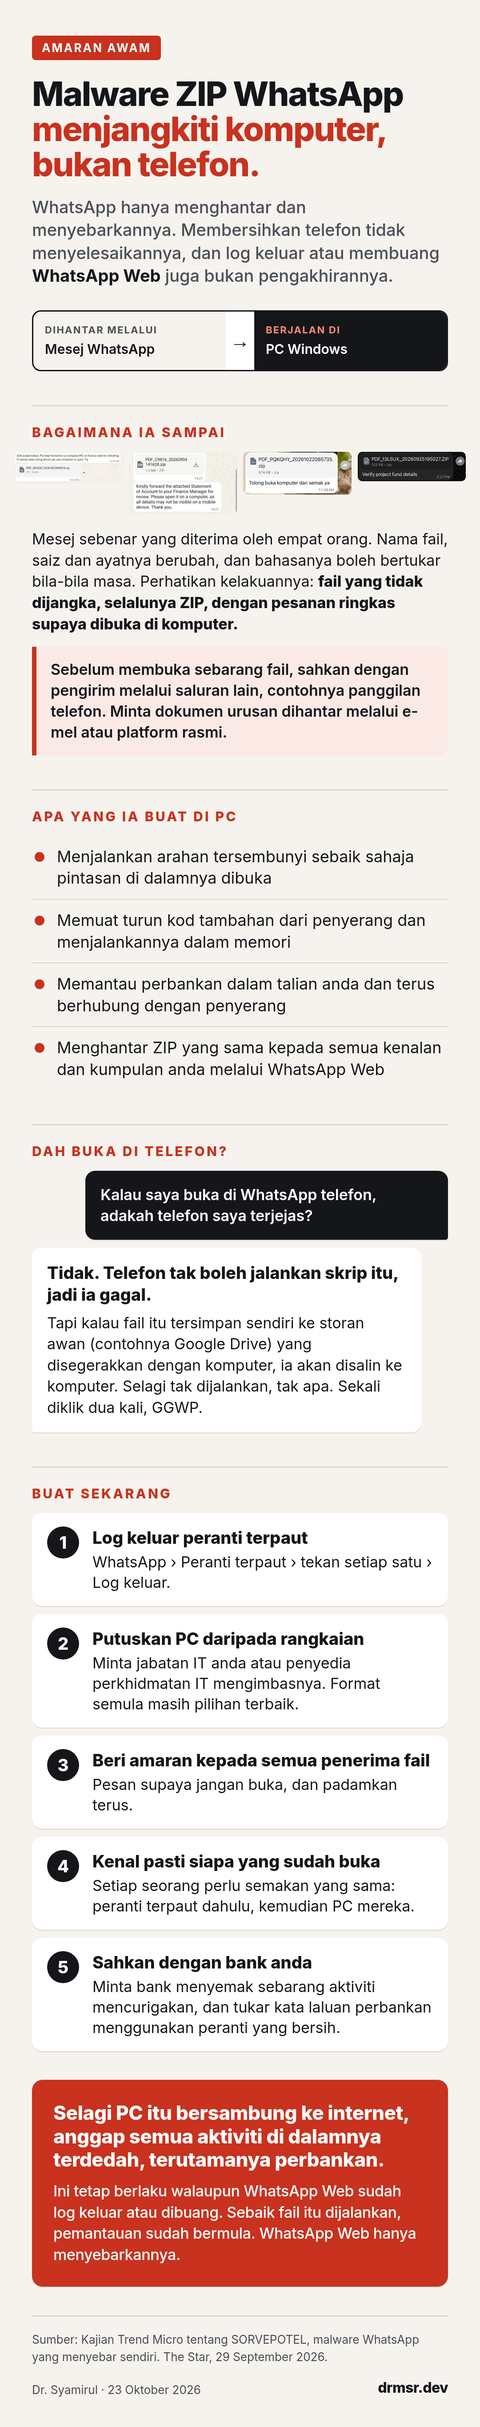
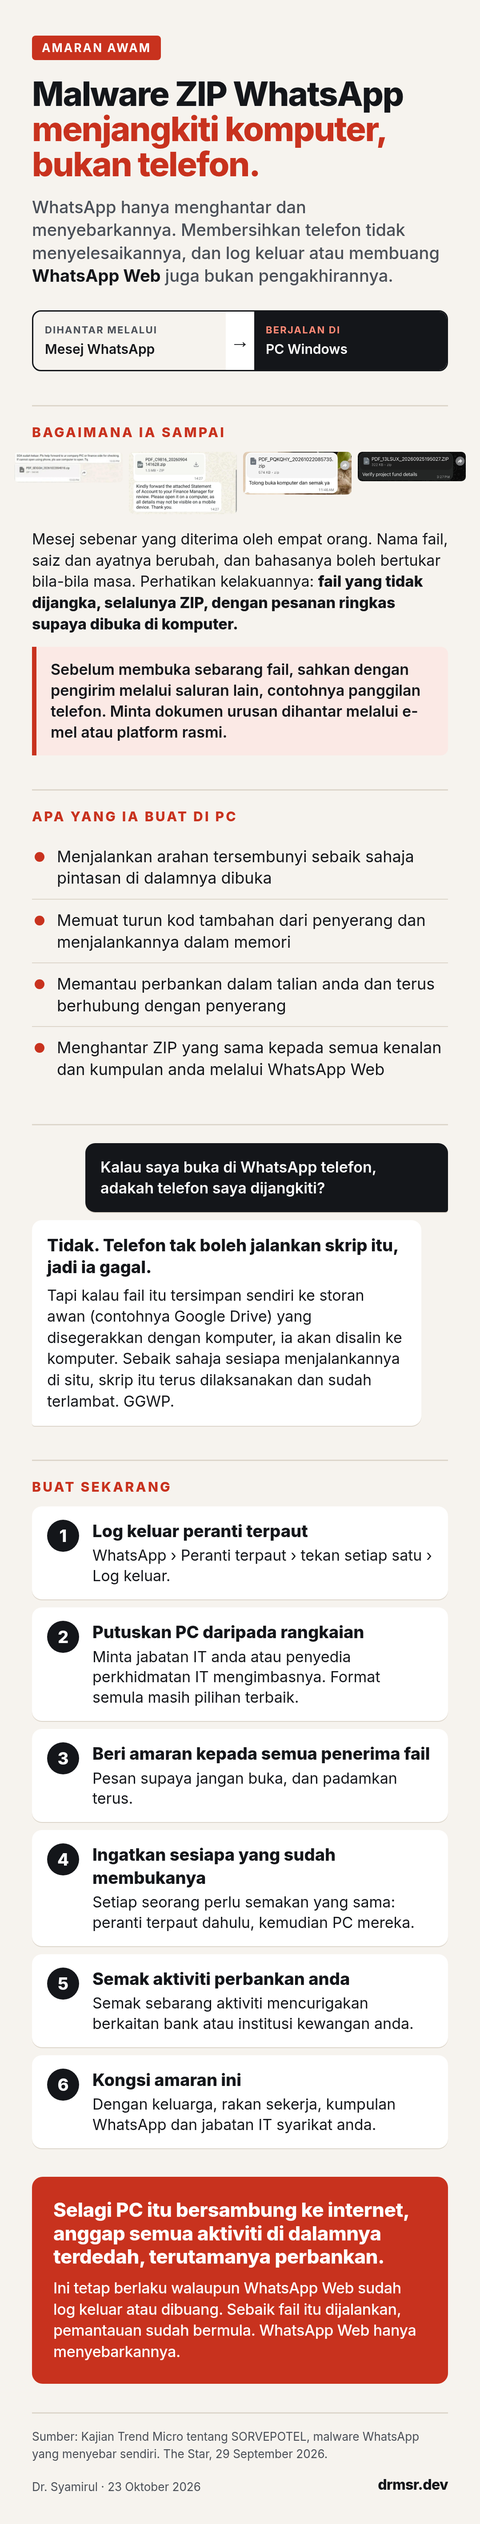
Advisory: Kid's second review (gallery lightbox, order, wording, steps)
Lure screenshots become a 2x2 (mobile) / 4-across grid that opens a
swipeable lightbox with previous/next and a counter. How it arrives now
comes first, the behaviour sentence is bold, the SORVEPOTEL sentence
links to the research, 'infected' replaces 'affected', steps 4-6
reworded, and the share button is centred with a share icon.

Claude-Session: https://claude.ai/code/session_01UKtv761YuUTM2Gfy5BTL3m

Changed region(s): [[0.0611, 0.0, 0.9778, 0.9978], [0.8556, 0.686, 0.8861, 0.7483]]

diff --git a/src/routes/Detail/components/MarkdownRenderer/ImageGallery.tsx b/src/routes/Detail/components/MarkdownRenderer/ImageGallery.tsx
@@ -1,0 +1,121 @@
+import { FC, TouchEvent, useCallback, useEffect, useState } from "react"
+import { ChevronLeft, ChevronRight, X } from "lucide-react"
+
+export type GalleryItem = {
+  src: string
+  alt: string
+  caption?: string
+}
+
+type Props = {
+  items: GalleryItem[]
+}
+
+// Thumbnail grid (2 across on mobile, 4 on wider screens) that opens a swipeable lightbox.
+const ImageGallery: FC<Props> = ({ items }) => {
+  const [open, setOpen] = useState<number | null>(null)
+  const [touchX, setTouchX] = useState<number | null>(null)
+  const count = items.length
+
+  const close = useCallback(() => setOpen(null), [])
+  const step = useCallback(
+    (delta: number) => setOpen((i) => (i === null ? i : (i + delta + count) % count)),
+    [count]
+  )
+
+  useEffect(() => {
+    if (open === null) return
+    const onKey = (e: KeyboardEvent) => {
+      if (e.key === "Escape") close()
+      if (e.key === "ArrowLeft") step(-1)
+      if (e.key === "ArrowRight") step(1)
+    }
+    window.addEventListener("keydown", onKey)
+    const overflow = document.body.style.overflow
+    document.body.style.overflow = "hidden"
+    return () => {
+      window.removeEventListener("keydown", onKey)
+      document.body.style.overflow = overflow
+    }
+  }, [open, close, step])
+
+  const onTouchEnd = (e: TouchEvent) => {
+    if (touchX === null) return
+    const dx = e.changedTouches[0].clientX - touchX
+    if (Math.abs(dx) > 40) step(dx < 0 ? 1 : -1)
+    setTouchX(null)
+  }
+
+  const item = open === null ? null : items[open]
+
+  return (
+    <>
+      <div className="grid grid-cols-2 sm:grid-cols-4 gap-3 my-4">
+        {items.map((it, i) => (
+          <button
+            key={it.src}
+            type="button"
+            onClick={() => setOpen(i)}
+            className="block w-full rounded-lg overflow-hidden border border-gray-6 bg-gray-3 cursor-zoom-in"
+            aria-label={it.alt}
+          >
+            <img src={it.src} alt={it.alt} className="w-full h-36 sm:h-40 object-contain" />
+          </button>
+        ))}
+      </div>
+
+      {item && open !== null && (
+        <div
+          role="dialog"
+          aria-modal="true"
+          className="fixed inset-0 z-50 flex flex-col items-center justify-center bg-black/90 p-4"
+          onClick={close}
+          onTouchStart={(e) => setTouchX(e.touches[0].clientX)}
+          onTouchEnd={onTouchEnd}
+        >
+          <button
+            type="button"
+            onClick={close}
+            aria-label="Close"
+            className="absolute top-4 right-4 rounded-full bg-white/15 p-2 text-white"
+          >
+            <X size={24} />
+          </button>
+
+          <div className="flex w-full max-w-4xl items-center gap-2" onClick={(e) => e.stopPropagation()}>
+            <button
+              type="button"
+              onClick={() => step(-1)}
+              aria-label="Previous"
+              className="shrink-0 rounded-full bg-white/15 p-2 text-white"
+            >
+              <ChevronLeft size={28} />
+            </button>
+            <img
+              src={item.src}
+              alt={item.alt}
+              className="min-w-0 flex-1 max-h-[70vh] object-contain rounded-lg"
+            />
+            <button
+              type="button"
+              onClick={() => step(1)}
+              aria-label="Next"
+              className="shrink-0 rounded-full bg-white/15 p-2 text-white"
+            >
+              <ChevronRight size={28} />
+            </button>
+          </div>
+
+          <div className="mt-4 max-w-2xl text-center text-sm leading-6 text-white" onClick={(e) => e.stopPropagation()}>
+            {item.caption && <p>{item.caption}</p>}
+            <p className="mt-2 font-semibold">
+              {open + 1} / {count}
+            </p>
+          </div>
+        </div>
+      )}
+    </>
+  )
+}
+
+export default ImageGallery

diff --git a/src/routes/Detail/components/MarkdownRenderer/index.tsx b/src/routes/Detail/components/MarkdownRenderer/index.tsx
@@ -6,6 +6,7 @@ import Image from "next/image"
 import Link from "next/link"
 import { FC } from "react"
 import ShareImageButton from "./ShareImageButton"
+import ImageGallery, { GalleryItem } from "./ImageGallery"
 
 // A markdown link to "#share-image:/path.png" renders as a share button for that image.
 const SHARE_IMAGE = "#share-image:"
@@ -56,11 +57,24 @@ const MarkdownRenderer: FC<Props> = ({ content }) => {
               </a>
             )
           },
-          pre: ({ children, ...props }) => (
-            <pre className="rounded-lg overflow-x-auto my-4" {...props}>
-              {children}
-            </pre>
-          ),
+          pre: ({ node, children, ...props }) => {
+            // A ```gallery fenced block holds a JSON list of images for ImageGallery.
+            const code: any = node?.children?.[0]
+            const cls = code?.properties?.className
+            if (Array.isArray(cls) && cls.includes("language-gallery")) {
+              const text = (code.children || []).map((c: any) => c.value || "").join("")
+              try {
+                return <ImageGallery items={JSON.parse(text) as GalleryItem[]} />
+              } catch {
+                return null
+              }
+            }
+            return (
+              <pre className="rounded-lg overflow-x-auto my-4" {...props}>
+                {children}
+              </pre>
+            )
+          },
           code: ({ className, children, ...props }: any) => {
             const match = /language-(\w+)/.exec(className || "")
             if (match) {

diff --git a/src/routes/Detail/components/MarkdownRenderer/ShareImageButton.tsx b/src/routes/Detail/components/MarkdownRenderer/ShareImageButton.tsx
@@ -1,4 +1,5 @@
 import { FC, MouseEvent, ReactNode, useEffect, useState } from "react"
+import { Share2 } from "lucide-react"
 
 type Props = {
   src: string
@@ -33,22 +34,28 @@ const ShareImageButton: FC<Props> = ({ src, children }) => {
   }
 
   return (
-    <a
-      href={src}
-      download={name}
-      onClick={onClick}
-      style={{
-        display: "inline-block",
-        padding: "0.6rem 1.2rem",
-        borderRadius: "9999px",
-        background: "var(--gray-12)",
-        color: "var(--gray-1)",
-        fontWeight: 600,
-        textDecoration: "none",
-      }}
-    >
-      {children}
-    </a>
+    <span style={{ display: "flex", justifyContent: "center", margin: "1rem 0" }}>
+      <a
+        href={src}
+        download={name}
+        onClick={onClick}
+        style={{
+          display: "inline-flex",
+          alignItems: "center",
+          gap: "0.5rem",
+          padding: "0.75rem 1.5rem",
+          borderRadius: "9999px",
+          background: "#c8321e",
+          color: "#ffffff",
+          fontWeight: 700,
+          textDecoration: "none",
+          boxShadow: "0 2px 8px rgba(0,0,0,0.25)",
+        }}
+      >
+        {children}
+        <Share2 size={18} aria-hidden="true" />
+      </a>
+    </span>
   )
 }
 

diff --git a/content/posts/whatsapp-malware-bm.md b/content/posts/whatsapp-malware-bm.md
@@ -12,45 +12,69 @@ thumbnail: null
 
 [Read in English](/advisory/whatsapp-malware-en)
 
-![Infografik amaran awam: malware ZIP WhatsApp menjangkiti komputer, bukan telefon, dengan lima langkah yang perlu diambil](https://drmsr.dev/images/advisory/whatsapp-malware-bm.png?v=2)
+![Infografik amaran awam: malware ZIP WhatsApp menjangkiti komputer, bukan telefon, dengan lima langkah yang perlu diambil](https://drmsr.dev/images/advisory/whatsapp-malware-bm.png?v=3)
 
 [Kongsi infografik ini](#share-image:/images/advisory/whatsapp-malware-bm.png)
-
-## Membersihkan telefon tidak menyelesaikannya
-
-Kalau anda sudah membuka fail ZIP itu, membersihkan telefon tidak menyelesaikannya. Log keluar, atau membuang terus WhatsApp Web, juga bukan pengakhirannya. WhatsApp hanyalah laluan untuk fail itu dihantar dan disebarkan. Perisian hasad (malware) ini berjalan di komputer Windows dan kekal di situ. Selagi komputer itu bersambung ke internet, anggap semua aktiviti di dalamnya terdedah, terutamanya perbankan dalam talian.
 
 ## Bagaimana ia sampai
 
 Mesej ini datang daripada orang yang anda kenal, atau muncul dalam kumpulan yang anda sertai. Ayatnya berbunyi seperti urusan pejabat biasa: penyata akaun, pesanan belian, invois, resit atau permintaan untuk menyemak butiran. Empat contoh ini diterima oleh orang yang berlainan:
 
-<div style="display:flex;gap:16px;align-items:flex-start;overflow-x:auto;scroll-snap-type:x mandatory;padding-bottom:8px;margin:16px 0"><figure style="flex:0 0 85%;scroll-snap-align:start;margin:0"><img src="https://drmsr.dev/images/advisory/whatsapp-malware-lure-1.png?v=2" alt="Tangkapan skrin WhatsApp umpan fail ZIP, contoh 1"><figcaption style="font-size:0.85em;line-height:1.5;opacity:0.8">"SOA sudah keluar. Pls help forward to ur company PIC or finance side for checking. If cannot open using phone, pls use computer to open. Tq." <code>PDF_SEIGGH_20261022094010.zip</code>, 560 KB</figcaption></figure><figure style="flex:0 0 85%;scroll-snap-align:start;margin:0"><img src="https://drmsr.dev/images/advisory/whatsapp-malware-lure-2.png?v=2" alt="Tangkapan skrin WhatsApp umpan fail ZIP, contoh 2"><figcaption style="font-size:0.85em;line-height:1.5;opacity:0.8">"Kindly forward the attached Statement of Account to your Finance Manager for review. Please open it on a computer, as all details may not be visible on a mobile device." <code>PDF_C9816_20260904141628.zip</code>, 1.5 MB</figcaption></figure><figure style="flex:0 0 85%;scroll-snap-align:start;margin:0"><img src="https://drmsr.dev/images/advisory/whatsapp-malware-lure-3.png?v=2" alt="Tangkapan skrin WhatsApp umpan fail ZIP, contoh 3"><figcaption style="font-size:0.85em;line-height:1.5;opacity:0.8">"Tolong buka komputer dan semak ya." <code>PDF_PQKQHY_20261022085735.zip</code>, 574 KB</figcaption></figure><figure style="flex:0 0 85%;scroll-snap-align:start;margin:0"><img src="https://drmsr.dev/images/advisory/whatsapp-malware-lure-4.png?v=2" alt="Tangkapan skrin WhatsApp umpan fail ZIP, contoh 4"><figcaption style="font-size:0.85em;line-height:1.5;opacity:0.8">"Verify project fund details." <code>PDF_13LSUX_20260925195027.ZIP</code>, 322 KB</figcaption></figure></div>
+```gallery
+[
+ {
+  "src": "https://drmsr.dev/images/advisory/whatsapp-malware-lure-1.png?v=3",
+  "alt": "Tangkapan skrin WhatsApp umpan fail ZIP, contoh 1",
+  "caption": "\"SOA sudah keluar. Pls help forward to ur company PIC or finance side for checking. If cannot open using phone, pls use computer to open. Tq.\" PDF_SEIGGH_20261022094010.zip, 560 KB"
+ },
+ {
+  "src": "https://drmsr.dev/images/advisory/whatsapp-malware-lure-2.png?v=3",
+  "alt": "Tangkapan skrin WhatsApp umpan fail ZIP, contoh 2",
+  "caption": "\"Kindly forward the attached Statement of Account to your Finance Manager for review. Please open it on a computer, as all details may not be visible on a mobile device.\" PDF_C9816_20260904141628.zip, 1.5 MB"
+ },
+ {
+  "src": "https://drmsr.dev/images/advisory/whatsapp-malware-lure-3.png?v=3",
+  "alt": "Tangkapan skrin WhatsApp umpan fail ZIP, contoh 3",
+  "caption": "\"Tolong buka komputer dan semak ya.\" PDF_PQKQHY_20261022085735.zip, 574 KB"
+ },
+ {
+  "src": "https://drmsr.dev/images/advisory/whatsapp-malware-lure-4.png?v=3",
+  "alt": "Tangkapan skrin WhatsApp umpan fail ZIP, contoh 4",
+  "caption": "\"Verify project fund details.\" PDF_13LSUX_20260925195027.ZIP, 322 KB"
+ }
+]
+```
 
-Nama fail, saiz dan ayatnya berubah dari satu gelombang ke gelombang seterusnya, dan bahasanya boleh bertukar bila-bila masa. Versi yang mula-mula dilaporkan di Brazil dan versi yang kini tersebar di Malaysia sudah pun berbeza begini. Jadi kenali ia melalui kelakuannya: fail yang tidak dijangka, selalunya ZIP, dengan pesanan ringkas supaya dibuka di komputer. Penyata atau invois yang sebenar tidak perlu dibuka di komputer.
+Nama fail, saiz dan ayatnya berubah dari satu gelombang ke gelombang seterusnya, dan bahasanya boleh bertukar bila-bila masa. Versi yang mula-mula dilaporkan di Brazil dan versi yang kini tersebar di Malaysia sudah pun berbeza begini. **Jadi kenali ia melalui kelakuannya: fail yang tidak dijangka, selalunya ZIP, dengan pesanan ringkas supaya dibuka di komputer.** Penyata atau invois yang sebenar tidak perlu dibuka di komputer.
 
 Sebelum membuka sebarang fail yang tidak dijangka, sahkan dengan pengirim melalui saluran lain, contohnya panggilan telefon. Dokumen urusan sepatutnya dihantar melalui e-mel atau platform rasmi, dan anda berhak memintanya begitu.
 
+## Membersihkan telefon tidak menyelesaikannya
+
+Kalau anda sudah membuka fail ZIP itu, membersihkan telefon tidak menyelesaikannya. Log keluar, atau membuang terus WhatsApp Web, juga bukan pengakhirannya. WhatsApp hanyalah laluan untuk fail itu dihantar dan disebarkan. Perisian hasad (malware) ini berjalan di komputer Windows dan kekal di situ. Selagi komputer itu bersambung ke internet, anggap semua aktiviti di dalamnya terdedah, terutamanya perbankan dalam talian.
+
 ## Apa yang ia buat di komputer
 
-Penyelidik keselamatan menamakan malware ini SORVEPOTEL. Di dalam ZIP itu ada satu pintasan (shortcut) Windows. Apabila dibuka, ia diam-diam menjalankan arahan tersembunyi yang memuat turun kod tambahan dari pelayan penyerang dan menjalankannya terus dalam memori komputer. Kod itu menyorok di dalam proses Windows yang biasa, memantau aktiviti perbankan, dan terus berhubung dengan beberapa pelayan milik penyerang.
+[Penyelidik keselamatan menamakan malware ini SORVEPOTEL.](https://www.trendaisecurity.com/en-us/resources-insights/trendai-security-blog/self-propagating-malware-spreads-via-whatsapp) Di dalam ZIP itu ada satu pintasan (shortcut) Windows. Apabila dibuka, ia diam-diam menjalankan arahan tersembunyi yang memuat turun kod tambahan dari pelayan penyerang dan menjalankannya terus dalam memori komputer. Kod itu menyorok di dalam proses Windows yang biasa, memantau aktiviti perbankan, dan terus berhubung dengan beberapa pelayan milik penyerang.
 
 Selepas itu ia menyebarkan dirinya. Jika WhatsApp Web atau WhatsApp Desktop sedang log masuk di komputer itu, malware ini menggunakannya untuk menghantar ZIP yang sama kepada semua kenalan dan kumpulan. Sebab itulah mesej ini nampak seperti datang daripada orang yang anda percaya: komputer merekalah yang menghantarnya tanpa mereka sedar.
 
 Sebaik sahaja fail itu dijalankan, log keluar atau membuang WhatsApp Web tidak menghentikannya. Pemantauan sudah pun bermula. WhatsApp Web hanyalah saluran untuk ia menyebar.
 
-## Saya buka di WhatsApp telefon. Adakah telefon saya terjejas?
+## Saya buka di WhatsApp telefon. Adakah telefon saya dijangkiti?
 
 Tidak. Fail itu akan gagal di telefon, kerana telefon tidak boleh menjalankan skrip tersebut. Ia datang menyamar sebagai fail ZIP, fail VBS atau PDF.
 
-Tetapi, kalau fail itu tersimpan secara automatik ke storan awan (contohnya Google Drive) dan komputer anda menyegerak dengan storan itu, fail tersebut akan disalin ke komputer anda. Selagi tiada siapa yang menjalankannya, tak apa. Tapi sebaik sahaja ia diklik dua kali di komputer, GGWP, dan semua yang tertulis di halaman ini terpakai.
+Tetapi, kalau fail itu tersimpan secara automatik ke storan awan (contohnya Google Drive) dan komputer anda menyegerak dengan storan itu, fail tersebut akan disalin ke komputer anda. Sebaik sahaja sesiapa menjalankannya di komputer itu, skrip itu terus dilaksanakan dan sudah terlambat. GGWP.
 
 ## Apa perlu dibuat sekarang
 
 1. Log keluar semua peranti terpaut. Di telefon, buka WhatsApp, pergi ke Peranti terpaut (Linked devices), tekan setiap satu dan pilih Log keluar.
 2. Putuskan komputer yang pernah dipautkan itu daripada rangkaian. Cabut kabel dan tutup Wi-Fi. Minta jabatan IT anda atau penyedia perkhidmatan IT membuat imbasan penuh dengan Windows Defender yang terkini. Format semula komputer masih pilihan terbaik. Jangan log masuk WhatsApp Web di komputer itu lagi sehingga ia benar-benar bersih.
 3. Beritahu semua yang menerima fail itu supaya jangan membukanya, dan padamkan terus.
-4. Kenal pasti siapa yang sudah membukanya. Setiap seorang perlu semakan yang sama: peranti terpaut dahulu, kemudian komputer mereka.
-5. Sahkan dengan bank anda. Minta bank menyemak akaun anda untuk sebarang aktiviti mencurigakan, atau semak sendiri dan hubungi bank jika ada yang tidak kena. Tukar kata laluan perbankan dalam talian menggunakan peranti yang bersih.
+4. Ingatkan sesiapa yang sudah membukanya. Setiap seorang perlu semakan yang sama: peranti terpaut dahulu, kemudian komputer mereka.
+5. Semak sebarang aktiviti mencurigakan berkaitan bank atau institusi kewangan anda.
+6. Kongsi halaman ini dengan keluarga, rakan sekerja, kumpulan WhatsApp dan jabatan IT syarikat anda.
 
 ## Rujukan
 

diff --git a/content/posts/whatsapp-malware-en.md b/content/posts/whatsapp-malware-en.md
@@ -12,45 +12,69 @@ thumbnail: null
 
 [Baca dalam Bahasa Melayu](/advisory/whatsapp-malware-bm)
 
-![Public advisory infographic: WhatsApp ZIP malware infects the computer, not the phone, with five steps to take now](https://drmsr.dev/images/advisory/whatsapp-malware-en.png?v=2)
+![Public advisory infographic: WhatsApp ZIP malware infects the computer, not the phone, with five steps to take now](https://drmsr.dev/images/advisory/whatsapp-malware-en.png?v=3)
 
 [Share this infographic](#share-image:/images/advisory/whatsapp-malware-en.png)
-
-## Cleaning your phone does not fix it
-
-If you opened the ZIP, cleaning your phone does not fix it. Logging out of, or even uninstalling, WhatsApp Web is not the end of it either. WhatsApp is only how the file is delivered and spread. The malware runs on the Windows computer and stays there. While that computer is connected to the internet, treat any activity on it as compromised, online banking most of all.
 
 ## How it arrives
 
 The message comes from someone you know, or appears in a group you are in. It is written as routine paperwork: a statement of account, a purchase order, an invoice, a receipt or a request to verify details. These four were received by different people:
 
-<div style="display:flex;gap:16px;align-items:flex-start;overflow-x:auto;scroll-snap-type:x mandatory;padding-bottom:8px;margin:16px 0"><figure style="flex:0 0 85%;scroll-snap-align:start;margin:0"><img src="https://drmsr.dev/images/advisory/whatsapp-malware-lure-1.png?v=2" alt="WhatsApp screenshot of the ZIP lure, example 1"><figcaption style="font-size:0.85em;line-height:1.5;opacity:0.8">"SOA sudah keluar. Pls help forward to ur company PIC or finance side for checking. If cannot open using phone, pls use computer to open. Tq." <code>PDF_SEIGGH_20261022094010.zip</code>, 560 KB</figcaption></figure><figure style="flex:0 0 85%;scroll-snap-align:start;margin:0"><img src="https://drmsr.dev/images/advisory/whatsapp-malware-lure-2.png?v=2" alt="WhatsApp screenshot of the ZIP lure, example 2"><figcaption style="font-size:0.85em;line-height:1.5;opacity:0.8">"Kindly forward the attached Statement of Account to your Finance Manager for review. Please open it on a computer, as all details may not be visible on a mobile device." <code>PDF_C9816_20260904141628.zip</code>, 1.5 MB</figcaption></figure><figure style="flex:0 0 85%;scroll-snap-align:start;margin:0"><img src="https://drmsr.dev/images/advisory/whatsapp-malware-lure-3.png?v=2" alt="WhatsApp screenshot of the ZIP lure, example 3"><figcaption style="font-size:0.85em;line-height:1.5;opacity:0.8">"Tolong buka komputer dan semak ya." <code>PDF_PQKQHY_20261022085735.zip</code>, 574 KB</figcaption></figure><figure style="flex:0 0 85%;scroll-snap-align:start;margin:0"><img src="https://drmsr.dev/images/advisory/whatsapp-malware-lure-4.png?v=2" alt="WhatsApp screenshot of the ZIP lure, example 4"><figcaption style="font-size:0.85em;line-height:1.5;opacity:0.8">"Verify project fund details." <code>PDF_13LSUX_20260925195027.ZIP</code>, 322 KB</figcaption></figure></div>
+```gallery
+[
+ {
+  "src": "https://drmsr.dev/images/advisory/whatsapp-malware-lure-1.png?v=3",
+  "alt": "WhatsApp screenshot of the ZIP lure, example 1",
+  "caption": "\"SOA sudah keluar. Pls help forward to ur company PIC or finance side for checking. If cannot open using phone, pls use computer to open. Tq.\" PDF_SEIGGH_20261022094010.zip, 560 KB"
+ },
+ {
+  "src": "https://drmsr.dev/images/advisory/whatsapp-malware-lure-2.png?v=3",
+  "alt": "WhatsApp screenshot of the ZIP lure, example 2",
+  "caption": "\"Kindly forward the attached Statement of Account to your Finance Manager for review. Please open it on a computer, as all details may not be visible on a mobile device.\" PDF_C9816_20260904141628.zip, 1.5 MB"
+ },
+ {
+  "src": "https://drmsr.dev/images/advisory/whatsapp-malware-lure-3.png?v=3",
+  "alt": "WhatsApp screenshot of the ZIP lure, example 3",
+  "caption": "\"Tolong buka komputer dan semak ya.\" PDF_PQKQHY_20261022085735.zip, 574 KB"
+ },
+ {
+  "src": "https://drmsr.dev/images/advisory/whatsapp-malware-lure-4.png?v=3",
+  "alt": "WhatsApp screenshot of the ZIP lure, example 4",
+  "caption": "\"Verify project fund details.\" PDF_13LSUX_20260925195027.ZIP, 322 KB"
+ }
+]
+```
 
-File names, sizes and wording change from one wave to the next, and the language can switch at any time. The version first reported in Brazil and the one now circulating in Malaysia already differ this way. Recognise it by its behaviour instead: an unexpected file, often a ZIP, with a short note asking you to open it on a computer. A genuine statement or invoice does not need a computer to open.
+File names, sizes and wording change from one wave to the next, and the language can switch at any time. The version first reported in Brazil and the one now circulating in Malaysia already differ this way. **Recognise it by its behaviour instead: an unexpected file, often a ZIP, with a short note asking you to open it on a computer.** A genuine statement or invoice does not need a computer to open.
 
 Before opening any file you did not expect, confirm it with the sender through another channel, such as a phone call. Business documents should come by email or through an official platform, and it is reasonable to ask for that.
 
+## Cleaning your phone does not fix it
+
+If you opened the ZIP, cleaning your phone does not fix it. Logging out of, or even uninstalling, WhatsApp Web is not the end of it either. WhatsApp is only how the file is delivered and spread. The malware runs on the Windows computer and stays there. While that computer is connected to the internet, treat any activity on it as compromised, online banking most of all.
+
 ## What it does on the computer
 
-Security researchers call this malware SORVEPOTEL. Inside the ZIP is a Windows shortcut. When it is opened, it quietly runs a hidden command that downloads more code from the attacker's server and runs it straight in the computer's memory. That code hides inside a normal Windows process, watches for banking activity, and stays in contact with several of the attacker's servers.
+[Security researchers call this malware SORVEPOTEL.](https://www.trendaisecurity.com/en-us/resources-insights/trendai-security-blog/self-propagating-malware-spreads-via-whatsapp) Inside the ZIP is a Windows shortcut. When it is opened, it quietly runs a hidden command that downloads more code from the attacker's server and runs it straight in the computer's memory. That code hides inside a normal Windows process, watches for banking activity, and stays in contact with several of the attacker's servers.
 
 It then spreads. If WhatsApp Web or WhatsApp Desktop is signed in on that computer, the malware uses it to send the same ZIP to every contact and group. This is why the message appears to come from people you trust: their computers sent it without their knowledge.
 
 Once the file has run, logging out of or uninstalling WhatsApp Web does not stop it. The monitoring is already in place. WhatsApp Web is only the channel it uses to spread.
 
-## I opened it in WhatsApp on my phone. Is my phone affected?
+## I opened it in WhatsApp on my phone. Is my phone infected?
 
 No. The file will fail on a phone, because a phone cannot run that script. It arrives disguised as a ZIP, a VBS file or a PDF.
 
-However, if your phone saved it automatically to a cloud drive (Google Drive, for example) and your computer syncs with that drive, the file is copied onto your computer. As long as nobody runs it there, nothing happens. Once someone double-clicks it on the computer, it is too late, and everything on this page applies.
+However, if your phone saved it automatically to a cloud drive (Google Drive, for example) and your computer syncs with that drive, the file is copied onto your computer. Once anyone runs it there, the script is executed and it is already too late.
 
 ## What to do now
 
 1. Log out every linked device. On your phone, open WhatsApp, go to Linked devices, tap each one and choose Log out.
 2. Take the computer that was linked off the network. Unplug the cable and turn off Wi-Fi. Have your IT department or an IT service provider run a full scan with an up-to-date Windows Defender. Reformatting the computer remains the best option. Do not sign in to WhatsApp Web on it again until it is clean.
 3. Tell everyone who received the file not to open it, and to delete it.
-4. Find out who already opened it. Each of them needs the same check: their linked devices first, then their computer.
-5. Confirm with your bank. Ask the bank to check your accounts for any suspicious activity, or review them yourself and call the bank if anything looks wrong. Change your online banking passwords from a clean device.
+4. Remind anyone who already opened it. Each of them needs the same check: their linked devices first, then their computer.
+5. Check for any suspicious activity related to your banks or financial institutions.
+6. Share this page with your family, colleagues, WhatsApp groups and your company's IT department.
 
 ## References
 
